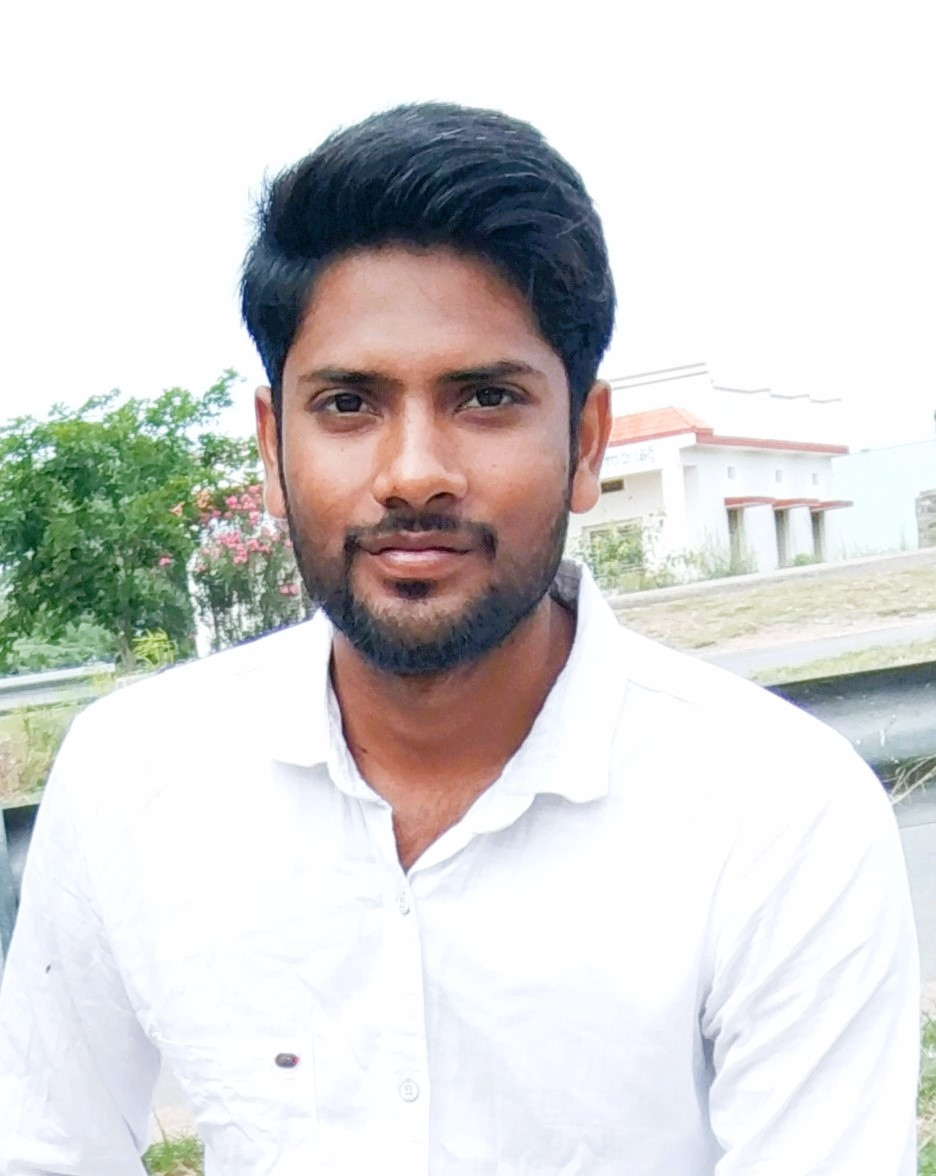
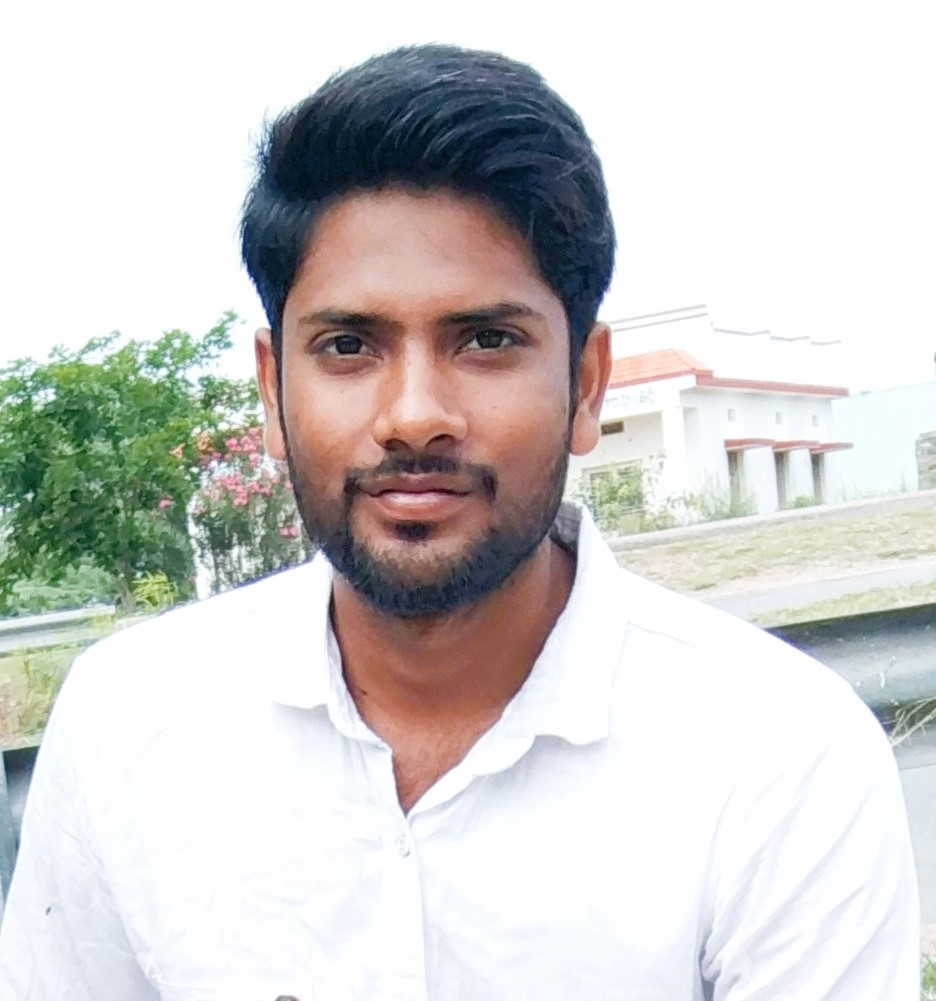
some

diff --git a/assets/css/style.min.css b/assets/css/style.min.css
@@ -1,4 +1,4 @@
- body {font-family: "Open Sans", sans-serif;color: #272829;}a {color: #149ddd;text-decoration: none;}a:hover {color: #37b3ed;text-decoration: none;}h1, h2, h3, h4, h5, h6 {font-family: "Raleway", sans-serif;}.back-to-top {position: fixed;visibility: hidden;opacity: 0;right: 15px;bottom: 15px;z-index: 996;background: #149ddd;width: 40px;height: 40px;border-radius: 50px;transition: all 0.4s;}.back-to-top i {font-size: 28px;color: #fff;line-height: 0;}.back-to-top:hover {background: #2eafec;color: #fff;}.back-to-top.active {visibility: visible;opacity: 1;}#header {position: fixed;top: 0;left: 0;bottom: 0;width: 300px;transition: all ease-in-out 0.5s;z-index: 9997;transition: all 0.5s;padding: 0 15px;background: #040b14;overflow-y: auto;}#header .profile img {margin: 15px auto;display: block;width: 120px;border: 8px solid #2c2f3f;}#header .profile h1 {font-size: 24px;margin: 0;padding: 0;font-weight: 600;-moz-text-align-last: center;text-align-last: center;font-family: "Poppins", sans-serif;}#header .profile h1 a, #header .profile h1 a:hover {color: #fff;text-decoration: none;}#header .profile .social-links a {font-size: 18px;display: inline-block;background: #212431;color: #fff;line-height: 1;padding: 8px 0;margin-right: 4px;border-radius: 50%;text-align: center;width: 36px;height: 36px;transition: 0.3s;}#header .profile .social-links a:hover {background: #149ddd;color: #fff;text-decoration: none;}#main {margin-left: 300px;}@media (max-width: 1199px) {#header {left: -300px;}#main {margin-left: 0;}}.nav-menu {padding: 30px 0 0 0;}.nav-menu * {margin: 0;padding: 0;list-style: none;}.nav-menu > ul > li {position: relative;white-space: nowrap;}.nav-menu a, .nav-menu a:focus {display: flex;align-items: center;color: #a8a9b4;padding: 12px 15px;margin-bottom: 8px;transition: 0.3s;font-size: 15px;}.nav-menu a i, .nav-menu a:focus i {font-size: 24px;padding-right: 8px;color: #6f7180;}.nav-menu a:hover, .nav-menu .active, .nav-menu .active:focus, .nav-menu li:hover > a {text-decoration: none;color: #fff;}.nav-menu a:hover i, .nav-menu .active i, .nav-menu .active:focus i, .nav-menu li:hover > a i {color: #149ddd;}.mobile-nav-toggle {position: fixed;right: 15px;top: 15px;z-index: 9998;border: 0;font-size: 24px;transition: all 0.4s;outline: none !important;background-color: #149ddd;color: #fff;width: 40px;height: 40px;display: inline-flex;align-items: center;justify-content: center;line-height: 0;border-radius: 50px;cursor: pointer;}.mobile-nav-active {overflow: hidden;}.mobile-nav-active #header {left: 0;}#hero {width: 100%;height: 100vh;background: url("../img/myimg.jpg") top center;background-size: cover;}#hero:before {
+ body {font-family: "Open Sans", sans-serif;color: #272829;}a {color: #149ddd;text-decoration: none;}a:hover {color: #37b3ed;text-decoration: none;}h1, h2, h3, h4, h5, h6 {font-family: "Raleway", sans-serif;}.back-to-top {position: fixed;visibility: hidden;opacity: 0;right: 15px;bottom: 15px;z-index: 996;background: #149ddd;width: 40px;height: 40px;border-radius: 50px;transition: all 0.4s;}.back-to-top i {font-size: 28px;color: #fff;line-height: 0;}.back-to-top:hover {background: #2eafec;color: #fff;}.back-to-top.active {visibility: visible;opacity: 1;}#header {position: fixed;top: 0;left: 0;bottom: 0;width: 300px;transition: all ease-in-out 0.5s;z-index: 9997;transition: all 0.5s;padding: 0 15px;background: #040b14;overflow-y: auto;}#header .profile img {margin: 15px auto;display: block;width: 160px;border: 8px solid #2c2f3f;}#header .profile h1 {font-size: 24px;margin: 0;padding: 0;font-weight: 600;-moz-text-align-last: center;text-align-last: center;font-family: "Poppins", sans-serif;}#header .profile h1 a, #header .profile h1 a:hover {color: #fff;text-decoration: none;}#header .profile .social-links a {font-size: 18px;display: inline-block;background: #212431;color: #fff;line-height: 1;padding: 8px 0;margin-right: 4px;border-radius: 50%;text-align: center;width: 36px;height: 36px;transition: 0.3s;}#header .profile .social-links a:hover {background: #149ddd;color: #fff;text-decoration: none;}#main {margin-left: 300px;}@media (max-width: 1199px) {#header {left: -300px;}#main {margin-left: 0;}}.nav-menu {padding: 30px 0 0 0;}.nav-menu * {margin: 0;padding: 0;list-style: none;}.nav-menu > ul > li {position: relative;white-space: nowrap;}.nav-menu a, .nav-menu a:focus {display: flex;align-items: center;color: #a8a9b4;padding: 12px 15px;margin-bottom: 8px;transition: 0.3s;font-size: 15px;}.nav-menu a i, .nav-menu a:focus i {font-size: 24px;padding-right: 8px;color: #6f7180;}.nav-menu a:hover, .nav-menu .active, .nav-menu .active:focus, .nav-menu li:hover > a {text-decoration: none;color: #fff;}.nav-menu a:hover i, .nav-menu .active i, .nav-menu .active:focus i, .nav-menu li:hover > a i {color: #149ddd;}.mobile-nav-toggle {position: fixed;right: 15px;top: 15px;z-index: 9998;border: 0;font-size: 24px;transition: all 0.4s;outline: none !important;background-color: #149ddd;color: #fff;width: 40px;height: 40px;display: inline-flex;align-items: center;justify-content: center;line-height: 0;border-radius: 50px;cursor: pointer;}.mobile-nav-active {overflow: hidden;}.mobile-nav-active #header {left: 0;}#hero {width: 100%;height: 100vh;background: url("../img/myimg.jpg") top center;background-size: cover;}#hero:before {
   content: "";
   background: rgba(5, 13, 24, 0.3);
   position: absolute;

diff --git a/index.html b/index.html
@@ -198,9 +198,9 @@
                 <div class="col-lg-6" data-aos="fade-up">
 
                   <div class="progress">
-                    <span class="skill">HTML <i class="val">70%</i></span>
+                    <span class="skill">HTML <i class="val">90%</i></span>
                     <div class="progress-bar-wrap">
-                      <div class="progress-bar" role="progressbar" aria-valuenow="70" aria-valuemin="0" aria-valuemax="100"></div>
+                      <div class="progress-bar" role="progressbar" aria-valuenow="90" aria-valuemin="0" aria-valuemax="100"></div>
                     </div>
                   </div>
 
@@ -208,6 +208,13 @@
                     <span class="skill">CSS <i class="val">70%</i></span>
                     <div class="progress-bar-wrap">
                       <div class="progress-bar" role="progressbar" aria-valuenow="70" aria-valuemin="0" aria-valuemax="100"></div>
+                    </div>
+                  </div>
+
+                  <div class="progress">
+                    <span class="skill">Bootstrap <i class="val">80%</i></span>
+                    <div class="progress-bar-wrap">
+                      <div class="progress-bar" role="progressbar" aria-valuenow="80" aria-valuemin="0" aria-valuemax="100"></div>
                     </div>
                   </div>
 
@@ -222,7 +229,14 @@
                 <div class="col-lg-6" data-aos="fade-up" data-aos-delay="100">
 
                   <div class="progress">
-                    <span class="skill">JQUREY <i class="val">50%</i></span>
+                    <span class="skill">JQUREY <i class="val">70%</i></span>
+                    <div class="progress-bar-wrap">
+                      <div class="progress-bar" role="progressbar" aria-valuenow="70" aria-valuemin="0" aria-valuemax="100"></div>
+                    </div>
+                  </div>
+
+                  <div class="progress">
+                    <span class="skill">Mango DB <i class="val">50%</i></span>
                     <div class="progress-bar-wrap">
                       <div class="progress-bar" role="progressbar" aria-valuenow="50" aria-valuemin="0" aria-valuemax="100"></div>
                     </div>
@@ -372,13 +386,13 @@
               <div class="email">
                 <i class="bi bi-envelope"></i>
                 <h4>Email:</h4>
-                <p>surendrareddy892@gmail.com</p>
+                <p><a href="mailto:surendrareddy892@gmail.com">surendrareddy892@gmail.com</a></p>
               </div>
 
               <div class="phone">
                 <i class="bi bi-phone"></i>
                 <h4>Call:</h4>
-                <p>+91 8686243910</p>
+                <p><a href="tel:8686243910">+91 8686243910</a></p>
               </div>
               <iframe src="https://www.google.com/maps/embed?pb=!1m18!1m12!1m3!1d3846.684127920157!2d77.87348831433809!3d15.393583989301385!2m3!1f0!2f0!3f0!3m2!1i1024!2i768!4f13.1!3m3!1m2!1s0x0%3A0x809f8670747f47!2zMTXCsDIzJzM2LjkiTiA3N8KwNTInMzIuNCJF!5e0!3m2!1sen!2sin!4v1657598447740!5m2!1sen!2sin" frameborder="0" style="border:0; width: 100%; height: 290px;" allowfullscreen></iframe>
             </div>

diff --git a/assets/css/style.css b/assets/css/style.css
@@ -76,7 +76,7 @@ h1, h2, h3, h4, h5, h6 {
 #header .profile img {
   margin: 15px auto;
   display: block;
-  width: 120px;
+  width: 150px;
   border: 8px solid #2c2f3f;
 }
 #header .profile h1 {
